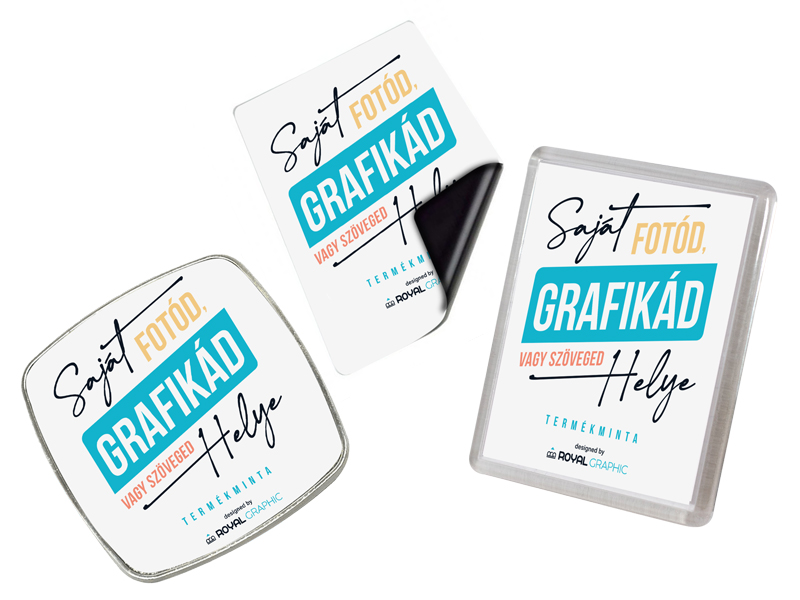
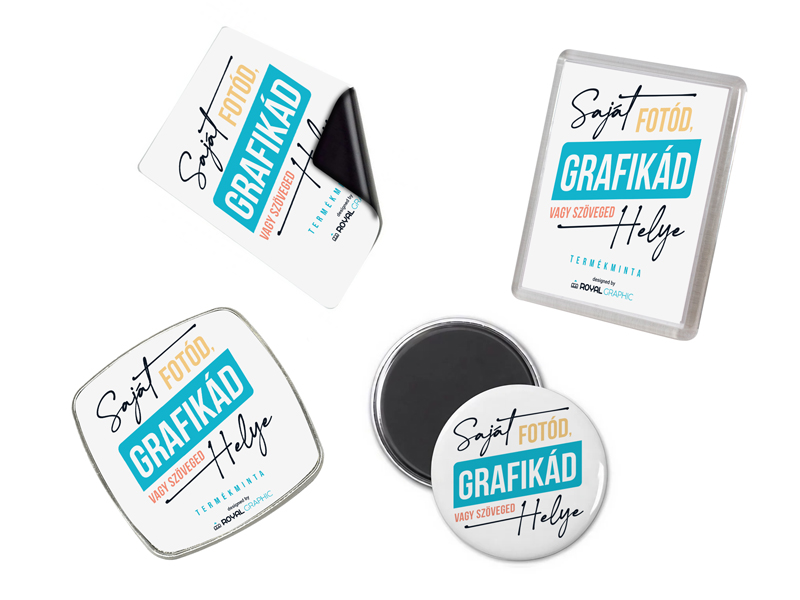
dd

diff --git a/termekek.html b/termekek.html
@@ -580,6 +580,16 @@
       </div>
 
       <div class="product">
+        <img class="product__pic" src="assets/product_pics/badge.jpg" alt="kitűző">
+        <h4>Kitűző</h4>
+        <p class="product__price">500 Ft-tól</p>
+        <p class="product__text">32 mm |  58 mm</p>
+        <p>Fém- vagy műanyag hátlappal</p>
+        <br>
+        <p class="product__text--small">Az ár tájékoztató jellegű!</p>        
+      </div>
+
+      <div class="product">
         <img class="product__pic" src="assets/product_pics/engraved_pen.jpg" alt="gravírozott toll">
         <h4>Gravírozott toll</h4>
         <p class="product__price">890 Ft-tól</p>
